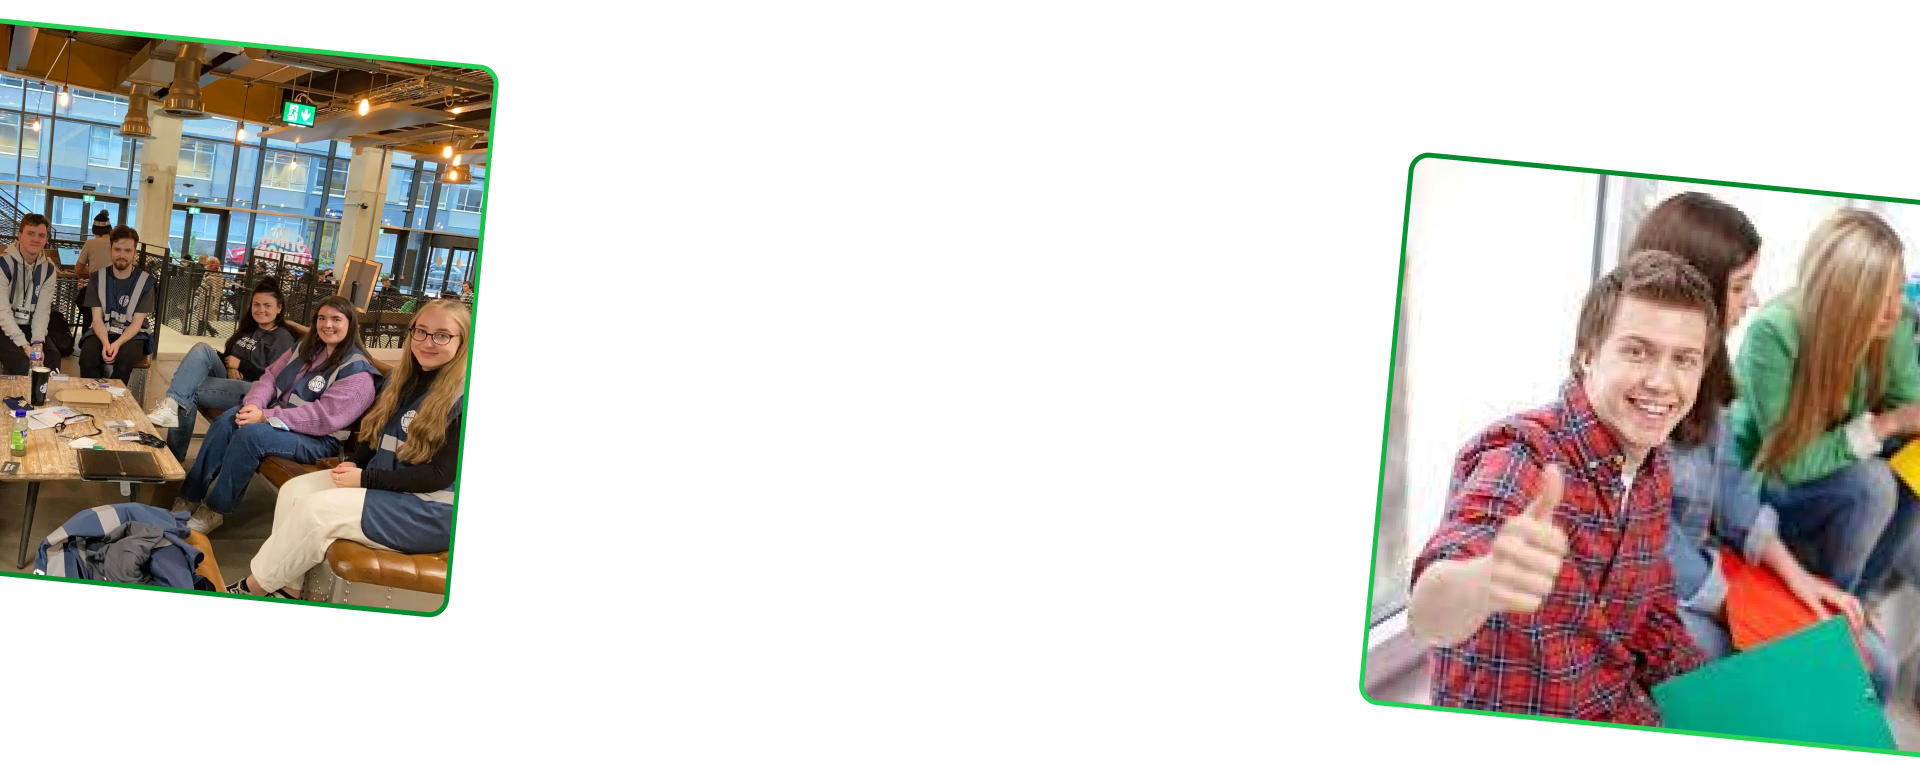
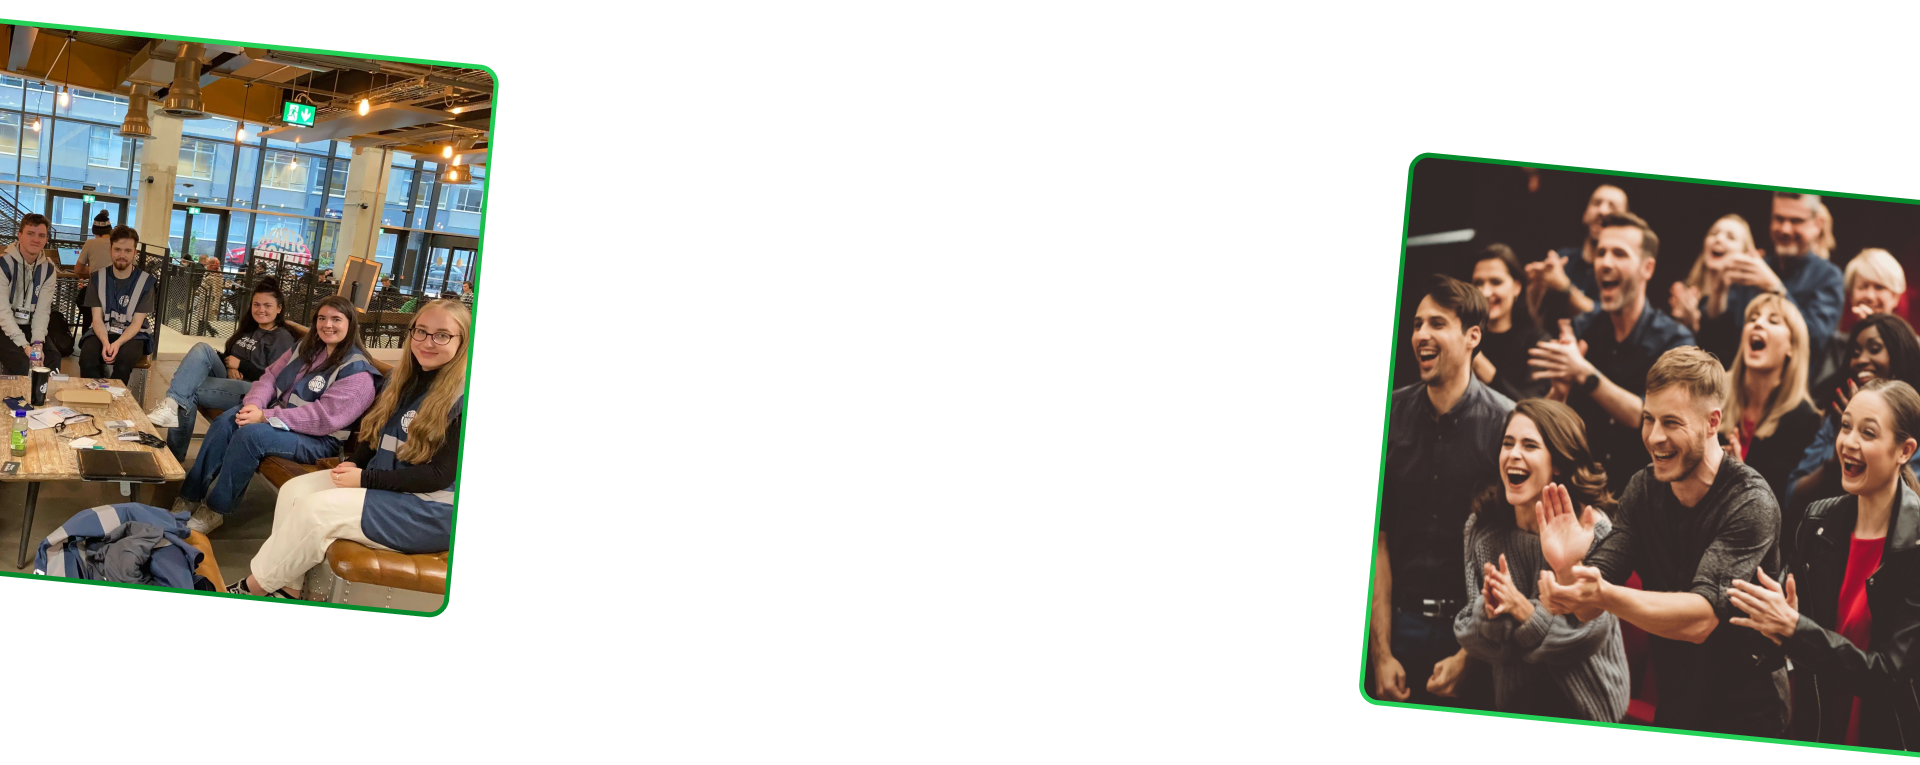
119

Changed region(s): [[0.6875, 0.2105, 1.0, 0.9922]]

diff --git a/src/Payroll Management/HeroSection.jsx b/src/Payroll Management/HeroSection.jsx
@@ -62,9 +62,9 @@ export default function BlogsPage() {
         <div className="flex flex-col w-6/12 mt-12 max-md:ml-0 max-md:w-full">
           <img
             loading="lazy"
-            src="https://cdn.builder.io/api/v1/image/assets/TEMP/646923812900e656fb2f158388c5da48739dc257a36637636e4e6d22e02577c1?placeholderIfAbsent=true&apiKey=af5cfb29bb594d4e9f9e505ea3916323"
+            src="/hr_design_one_images/image 1.png"
             alt="Educational CRM platform interface showcase"
-            className="object-contain grow w-[80%] aspect-[1.58] max-md:mt-10 max-md:max-w-full"
+            className="object-contain grow w-[70%] aspect-[1.58] max-md:mt-10 max-md:max-w-full"
           />
         </div>
         <div className="flex flex-col w-6/12 max-md:ml-0 max-md:w-full">
@@ -93,7 +93,7 @@ export default function BlogsPage() {
       </div>
     </div>
     <div className="flex overflow-hidden relative flex-col justify-center mt-10 items-center items-end w-full max-md:pl-5 max-md:max-w-full"style={{
-    backgroundImage: 'url("Design_one_images/Group 1321314639 (1).png")',
+    backgroundImage: 'url("hr_design_one_images/image 2.png")',
     backgroundSize: 'cover',
     backgroundPosition: 'center center',
     backgroundRepeat: 'no-repeat',

diff --git a/src/Compliance/HeroSection.jsx b/src/Compliance/HeroSection.jsx
@@ -62,7 +62,7 @@ export default function BlogsPage() {
         <div className="flex flex-col w-6/12 mt-12 max-md:ml-0 max-md:w-full">
           <img
             loading="lazy"
-            src="https://cdn.builder.io/api/v1/image/assets/TEMP/646923812900e656fb2f158388c5da48739dc257a36637636e4e6d22e02577c1?placeholderIfAbsent=true&apiKey=af5cfb29bb594d4e9f9e505ea3916323"
+            src="/hr_design_one_images/image 5.png"
             alt="Educational CRM platform interface showcase"
             className="object-contain grow w-[80%] aspect-[1.58] max-md:mt-10 max-md:max-w-full"
           />
@@ -93,7 +93,7 @@ export default function BlogsPage() {
       </div>
     </div>
     <div className="flex overflow-hidden relative flex-col justify-center mt-10 items-center items-end w-full max-md:pl-5 max-md:max-w-full"style={{
-    backgroundImage: 'url("Design_one_images/Group 1321314639 (1).png")',
+    backgroundImage: 'url("hr_design_one_images/image 6.png")',
     backgroundSize: 'cover',
     backgroundPosition: 'center center',
     backgroundRepeat: 'no-repeat',

diff --git a/src/Document Management/HeroSection.jsx b/src/Document Management/HeroSection.jsx
@@ -62,7 +62,7 @@ export default function BlogsPage() {
         <div className="flex flex-col w-6/12 mt-12 max-md:ml-0 max-md:w-full">
           <img
             loading="lazy"
-            src="https://cdn.builder.io/api/v1/image/assets/TEMP/646923812900e656fb2f158388c5da48739dc257a36637636e4e6d22e02577c1?placeholderIfAbsent=true&apiKey=af5cfb29bb594d4e9f9e505ea3916323"
+            src="/hr_design_one_images/image 3.png"
             alt="Educational CRM platform interface showcase"
             className="object-contain grow w-[80%] aspect-[1.58] max-md:mt-10 max-md:max-w-full"
           />
@@ -94,7 +94,7 @@ export default function BlogsPage() {
       </div>
     </div>
     <div className="flex overflow-hidden relative flex-col justify-center mt-10 items-center items-end w-full max-md:pl-5 max-md:max-w-full"style={{
-    backgroundImage: 'url("Design_one_images/Group 1321314639 (1).png")',
+    backgroundImage: 'url("hr_design_one_images/image 4.png")',
     backgroundSize: 'cover',
     backgroundPosition: 'center center',
     backgroundRepeat: 'no-repeat',

diff --git a/src/Organizational Structure Management/HeroSection.jsx b/src/Organizational Structure Management/HeroSection.jsx
@@ -102,7 +102,7 @@ export default function BlogsPage() {
           <div className="flex flex-col ml-5 w-[45%] max-md:ml-0 max-md:w-full">
             <img
               loading="lazy"
-              src="/Design_three_images/image 85.png"
+              src="/hr_design_three_images/image 10.png"
               alt="User and teacher management interface demonstration"
               className="object-contain grow w-full aspect-[1.5] max-md:mt-9 max-md:max-w-full"
 
@@ -116,7 +116,7 @@ export default function BlogsPage() {
         <div className="flex flex-col w-6/12 pr-36 max-md:ml-0 max-md:w-full">
           <img
             loading="lazy"
-            src="Design_three_images/image 86.png"
+            src="hr_design_three_images/image 11.webp"
             alt="Educational CRM platform interface showcase"
             className="object-contain grow w-full max-md:mt-10 max-md:max-w-full rounded-2xl"
             style={{

diff --git a/src/Organization Handbook/HeroSection.jsx b/src/Organization Handbook/HeroSection.jsx
@@ -102,7 +102,7 @@ export default function BlogsPage() {
           <div className="flex flex-col ml-5 w-[45%] max-md:ml-0 max-md:w-full">
             <img
               loading="lazy"
-              src="/Design_three_images/image 85.png"
+              src="/hr_design_three_images/image 13.png"
               alt="User and teacher management interface demonstration"
               className="object-contain grow w-full aspect-[1.5] max-md:mt-9 max-md:max-w-full"
 
@@ -116,7 +116,7 @@ export default function BlogsPage() {
         <div className="flex flex-col w-6/12 pr-36 max-md:ml-0 max-md:w-full">
           <img
             loading="lazy"
-            src="Design_three_images/image 86.png"
+            src="hr_design_three_images/image 14.png"
             alt="Educational CRM platform interface showcase"
             className="object-contain grow w-full max-md:mt-10 max-md:max-w-full rounded-2xl"
             style={{

diff --git a/src/Communication Tools/HeroSection.jsx b/src/Communication Tools/HeroSection.jsx
@@ -102,7 +102,7 @@ export default function BlogsPage() {
           <div className="flex flex-col ml-5 w-[45%] max-md:ml-0 max-md:w-full">
             <img
               loading="lazy"
-              src="/Design_three_images/image 85.png"
+              src="/hr_design_three_images/image 4.png"
               alt="User and teacher management interface demonstration"
               className="object-contain grow w-full aspect-[1.5] max-md:mt-9 max-md:max-w-full"
 
@@ -116,7 +116,7 @@ export default function BlogsPage() {
         <div className="flex flex-col w-6/12 pr-36 max-md:ml-0 max-md:w-full">
           <img
             loading="lazy"
-            src="Design_three_images/image 86.png"
+            src="hr_design_three_images/image 5.jpg"
             alt="Educational CRM platform interface showcase"
             className="object-contain grow w-full max-md:mt-10 max-md:max-w-full rounded-2xl"
             style={{

diff --git a/src/Recruitment Platform/HeroSection.jsx b/src/Recruitment Platform/HeroSection.jsx
@@ -102,7 +102,7 @@ export default function BlogsPage() {
           <div className="flex flex-col ml-5 w-[45%] max-md:ml-0 max-md:w-full">
             <img
               loading="lazy"
-              src="/Design_three_images/image 85.png"
+              src="/hr_design_three_images/image 1.png"
               alt="User and teacher management interface demonstration"
               className="object-contain grow w-full aspect-[1.5] max-md:mt-9 max-md:max-w-full"
 
@@ -116,7 +116,7 @@ export default function BlogsPage() {
         <div className="flex flex-col w-6/12 pr-36 max-md:ml-0 max-md:w-full">
           <img
             loading="lazy"
-            src="Design_three_images/image 86.png"
+            src="hr_design_three_images/image 2.jpg"
             alt="Educational CRM platform interface showcase"
             className="object-contain grow w-full max-md:mt-10 max-md:max-w-full rounded-2xl"
             style={{

diff --git a/src/Reskilling/HeroSection.jsx b/src/Reskilling/HeroSection.jsx
@@ -102,7 +102,7 @@ export default function BlogsPage() {
           <div className="flex flex-col ml-5 w-[45%] max-md:ml-0 max-md:w-full">
             <img
               loading="lazy"
-              src="/Design_three_images/image 85.png"
+              src="/hr_design_three_images/image 7.png"
               alt="User and teacher management interface demonstration"
               className="object-contain grow w-full aspect-[1.5] max-md:mt-9 max-md:max-w-full"
 
@@ -116,7 +116,7 @@ export default function BlogsPage() {
         <div className="flex flex-col w-6/12 pr-36 max-md:ml-0 max-md:w-full">
           <img
             loading="lazy"
-            src="Design_three_images/image 86.png"
+            src="hr_design_three_images/image 8.png"
             alt="Educational CRM platform interface showcase"
             className="object-contain grow w-full max-md:mt-10 max-md:max-w-full rounded-2xl"
             style={{

diff --git a/src/Content Library/HeroSection.jsx b/src/Content Library/HeroSection.jsx
@@ -62,7 +62,7 @@ export default function BlogsPage() {
         <div className="flex flex-col w-6/12 mt-12 max-md:ml-0 max-md:w-full">
           <img
             loading="lazy"
-            src="https://cdn.builder.io/api/v1/image/assets/TEMP/646923812900e656fb2f158388c5da48739dc257a36637636e4e6d22e02577c1?placeholderIfAbsent=true&apiKey=af5cfb29bb594d4e9f9e505ea3916323"
+            src="/hr_design_one_images/image 7.png"
             alt="Educational CRM platform interface showcase"
             className="object-contain grow w-[80%] aspect-[1.58] max-md:mt-10 max-md:max-w-full"
           />

diff --git a/src/Performance HR/HeroSection.jsx b/src/Performance HR/HeroSection.jsx
@@ -62,7 +62,7 @@ export default function BlogsPage() {
         <div className="flex flex-col w-6/12 mt-12 max-md:ml-0 max-md:w-full">
           <img
             loading="lazy"
-            src="https://cdn.builder.io/api/v1/image/assets/TEMP/646923812900e656fb2f158388c5da48739dc257a36637636e4e6d22e02577c1?placeholderIfAbsent=true&apiKey=af5cfb29bb594d4e9f9e505ea3916323"
+            src="/hr_design_one_images/image 8.png"
             alt="Educational CRM platform interface showcase"
             className="object-contain grow w-[80%] aspect-[1.58] max-md:mt-10 max-md:max-w-full"
           />

diff --git a/src/Skill Mapping/HeroSection.jsx b/src/Skill Mapping/HeroSection.jsx
@@ -62,7 +62,7 @@ export default function BlogsPage() {
         <div className="flex flex-col w-6/12 mt-12 max-md:ml-0 max-md:w-full">
           <img
             loading="lazy"
-            src="https://cdn.builder.io/api/v1/image/assets/TEMP/646923812900e656fb2f158388c5da48739dc257a36637636e4e6d22e02577c1?placeholderIfAbsent=true&apiKey=af5cfb29bb594d4e9f9e505ea3916323"
+            src="/hr_design_one_images/image 9.png"
             alt="Educational CRM platform interface showcase"
             className="object-contain grow w-[80%] aspect-[1.58] max-md:mt-10 max-md:max-w-full"
           />

diff --git a/src/Report/HeroSection.jsx b/src/Report/HeroSection.jsx
@@ -116,7 +116,7 @@ export default function BlogsPage() {
         <div className="flex flex-col w-6/12 pr-36 max-md:ml-0 max-md:w-full">
           <img
             loading="lazy"
-            src="Analytics_design_one _images/image 5.png"
+            src="/Analytics_design_one_images/image 5.png"
             alt="Educational CRM platform interface showcase"
             className="object-contain grow w-full max-md:mt-10 max-md:max-w-full rounded-2xl"
             style={{
